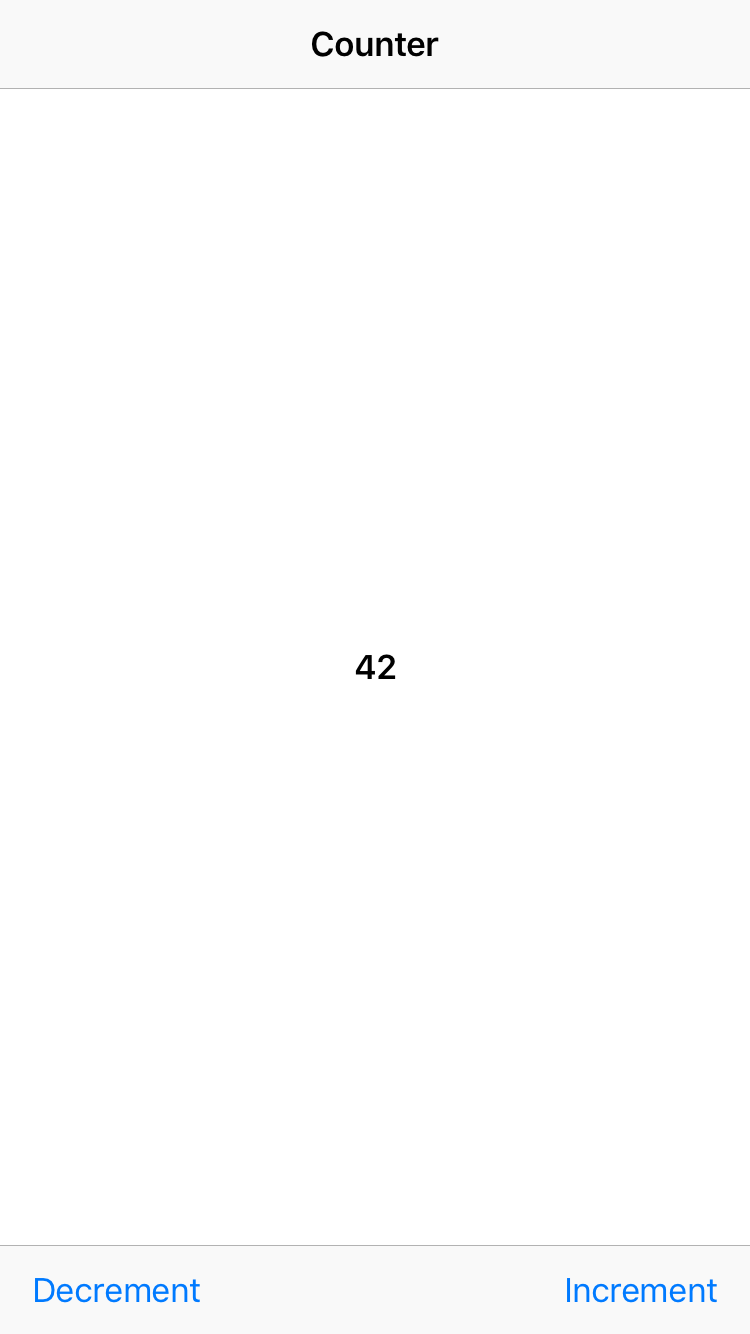
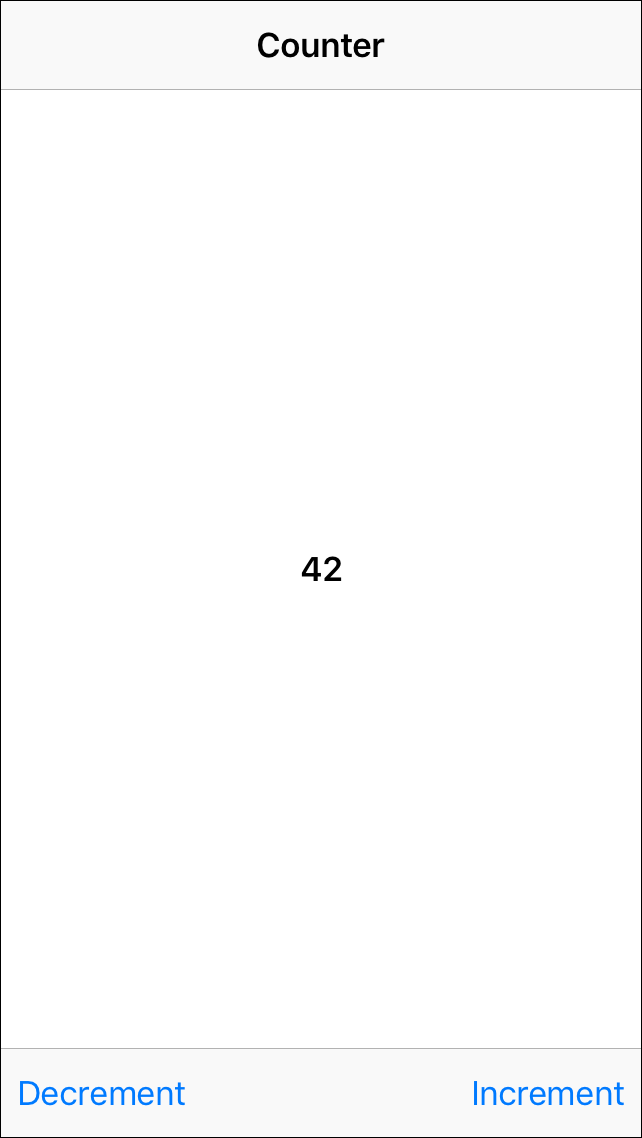
Improve images in README

diff --git a/README.md b/README.md
@@ -6,7 +6,7 @@ This is [Elm](http://elm-lang.org) architecture for [Swift](https://swift.org).
 
 Let's build a counter:
 
-<img src="Images/Screenshot.png" width="375" height="667" alt="Screenshot"/>
+<img src="Images/Screenshot.png" width="321" height="569" alt="Screenshot"/>
 
 ## Functional core
 
@@ -68,7 +68,7 @@ Let's build a counter:
 ## Imperative shell
 
 * Storyboard:
-    <img src="Images/Storyboard.png" width="935" height="700" alt="Storyboard"/>
+    <img src="Images/Storyboard.png" width="813" height="601" alt="Storyboard"/>
 
 * View controller:
     ```swift
